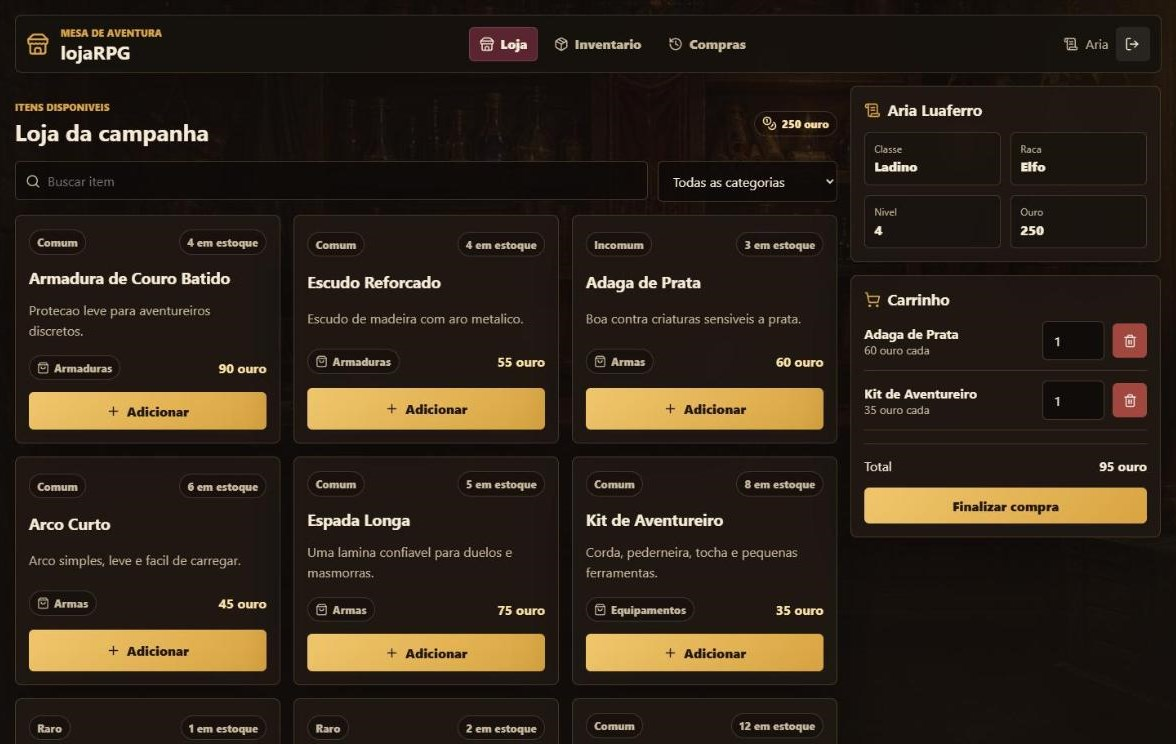
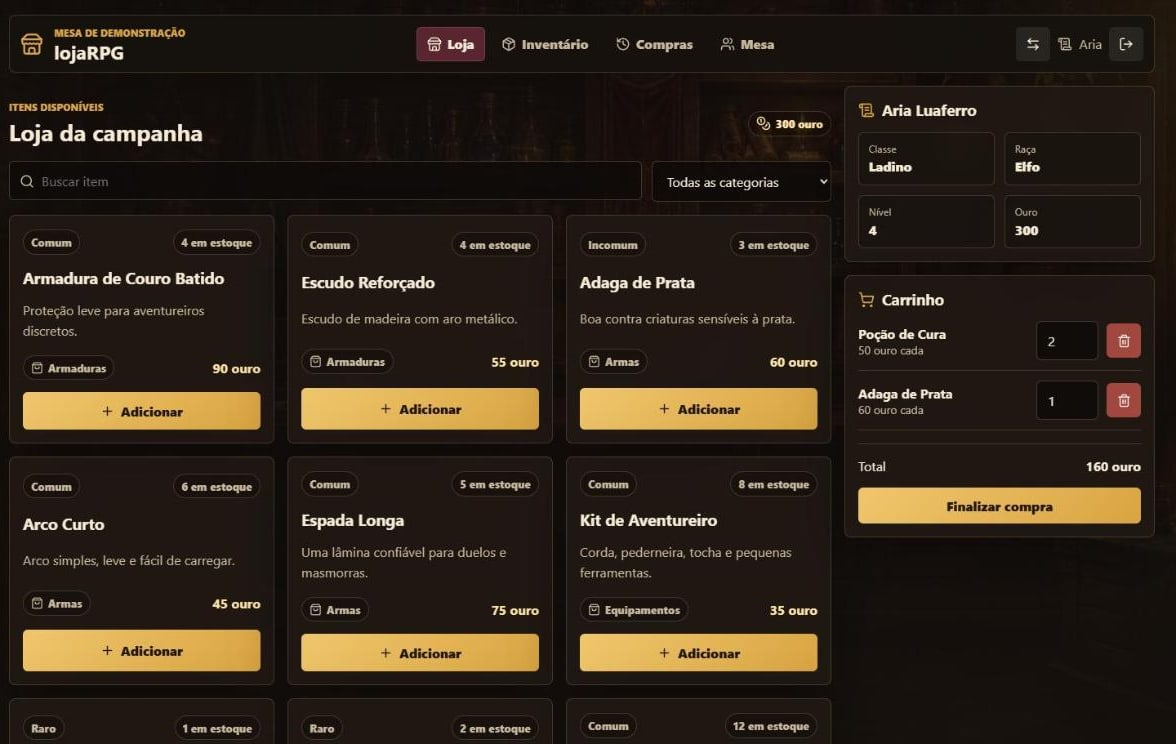
docs: prints e GIF do README com a interface atual
Loja com carrinho, aba Mesa com o convite, painel do Mestre com a divisao
de ouro e um GIF com compra, venda e uso de item (416 KB, antes 1,9 MB).

diff --git a/README.md b/README.md
@@ -45,6 +45,8 @@ Para jogar com o seu grupo: crie uma conta, crie a mesa e envie o link da aba
 **Mesa** aos jogadores. Cada um cria a conta pelo link, entra na mesa e cria o
 personagem.
 
+![Aba Mesa do Mestre com o grupo e o código de convite](docs/images/mesa-convite.jpg)
+
 **Jogador**
 
 - Personagens por mesa, com vários por conta.
@@ -57,7 +59,7 @@ personagem.
 - Inventário, histórico de compras e de vendas, usos e recompensas por
   personagem.
 
-![Login, carrinho, compra e inventário da personagem Aria](docs/images/demo-compra.gif)
+![Aria compra, vende uma poção à loja e usa outra pelo inventário](docs/images/demo-compra.gif)
 
 **Mestre**
 
@@ -71,7 +73,7 @@ personagem.
 - Ajuste de ouro com motivo obrigatório e auditoria de cada alteração.
 - Histórico de movimentações de estoque.
 
-![Painel administrativo do Mestre](docs/images/painel-mestre.jpg)
+![Painel do Mestre com o cadastro de itens e a divisão de ouro entre o grupo](docs/images/painel-mestre.jpg)
 
 ## Arquitetura
 
